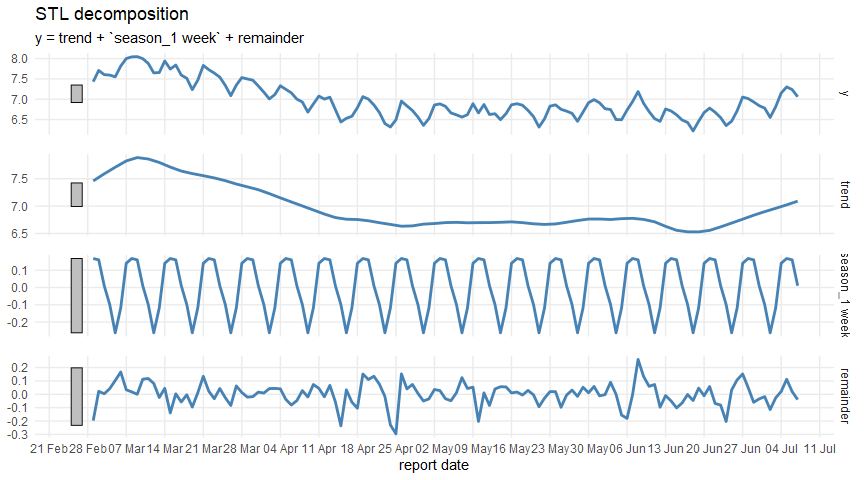
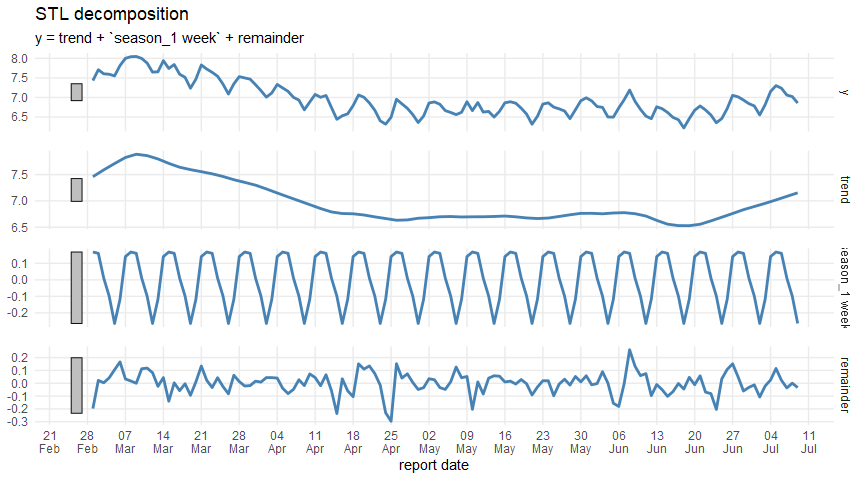
update for 20220710; reformat date labels

diff --git a/covid-post-peak-analysis.md b/covid-post-peak-analysis.md
@@ -31,7 +31,7 @@ cases_df <- read_csv(case_data_url) %>%
 
     ## Warning: One or more parsing issues, see `problems()` for details
 
-    ## Rows: 1412642 Columns: 7
+    ## Rows: 1429924 Columns: 7
 
     ## -- Column specification --------------------------------------------------------
     ## Delimiter: ","
@@ -50,7 +50,7 @@ cases_by_dhb_df <- cases_df %>%
   count(report_date, dhb, case_status)
 ```
 
-## Wellington figures up to 7 Jul 2022
+## Wellington figures up to 9 Jul 2022
 
 Including Hutt and Wairarapa as well as CCDHB.
 
@@ -93,7 +93,7 @@ dhb_cases_transformed_stl <- dhb_cases_transformed_ts %>%
 
 dhb_cases_transformed_stl %>% 
   autoplot(colour = "steelblue", size = 1) +
-  scale_x_date(date_breaks = "1 week", date_labels = "%d %b") +
+  scale_x_date(date_breaks = "1 week", date_labels = "%d\n%b") +
   labs(x = "report date") +
   theme_minimal() +
   theme(panel.grid.minor = element_blank(), panel.spacing.y = unit(1, "lines"))
@@ -114,7 +114,7 @@ dhb_cases_after_transform_stl_df %>%
   geom_line(aes(x = report_date, y = season_adjust), colour = "firebrick", size = 1) +
   geom_line(aes(x = report_date, y = trend), colour = "steelblue", size = 1) +
   geom_point(aes(x = report_date, y = cases)) +
-  scale_x_date(date_breaks = "1 week", date_labels = "%d %b") +
+  scale_x_date(date_breaks = "1 week", date_labels = "%d\n%b") +
   scale_y_continuous(limits = c(0, NA)) +
   labs(x = "", y = "", title = str_glue("Total daily COVID-19 cases to {nice_date_format(latest_report_date)}"),
        subtitle = str_glue("for {dhb_names_label} DHBs\n", 
@@ -142,7 +142,7 @@ dhb_cases_df %>%
   geom_line(data = dhb_cases_after_transform_stl_df,
             aes(x = report_date, y = trend), colour = "firebrick", size = 1) +
   scale_y_continuous(limits = c(0, NA)) +
-  scale_x_date(date_breaks = "1 week", date_labels = "%d %b") +
+  scale_x_date(date_breaks = "1 week", date_labels = "%d\n%b") +
   scale_fill_manual(values = dhb_pal, guide = guide_legend(title = "DHB")) +
   labs(x = "", y = "", title = str_glue("Daily COVID-19 cases to {nice_date_format(latest_report_date)}"),
        subtitle = str_glue("for {dhb_names_label} DHBs"),
